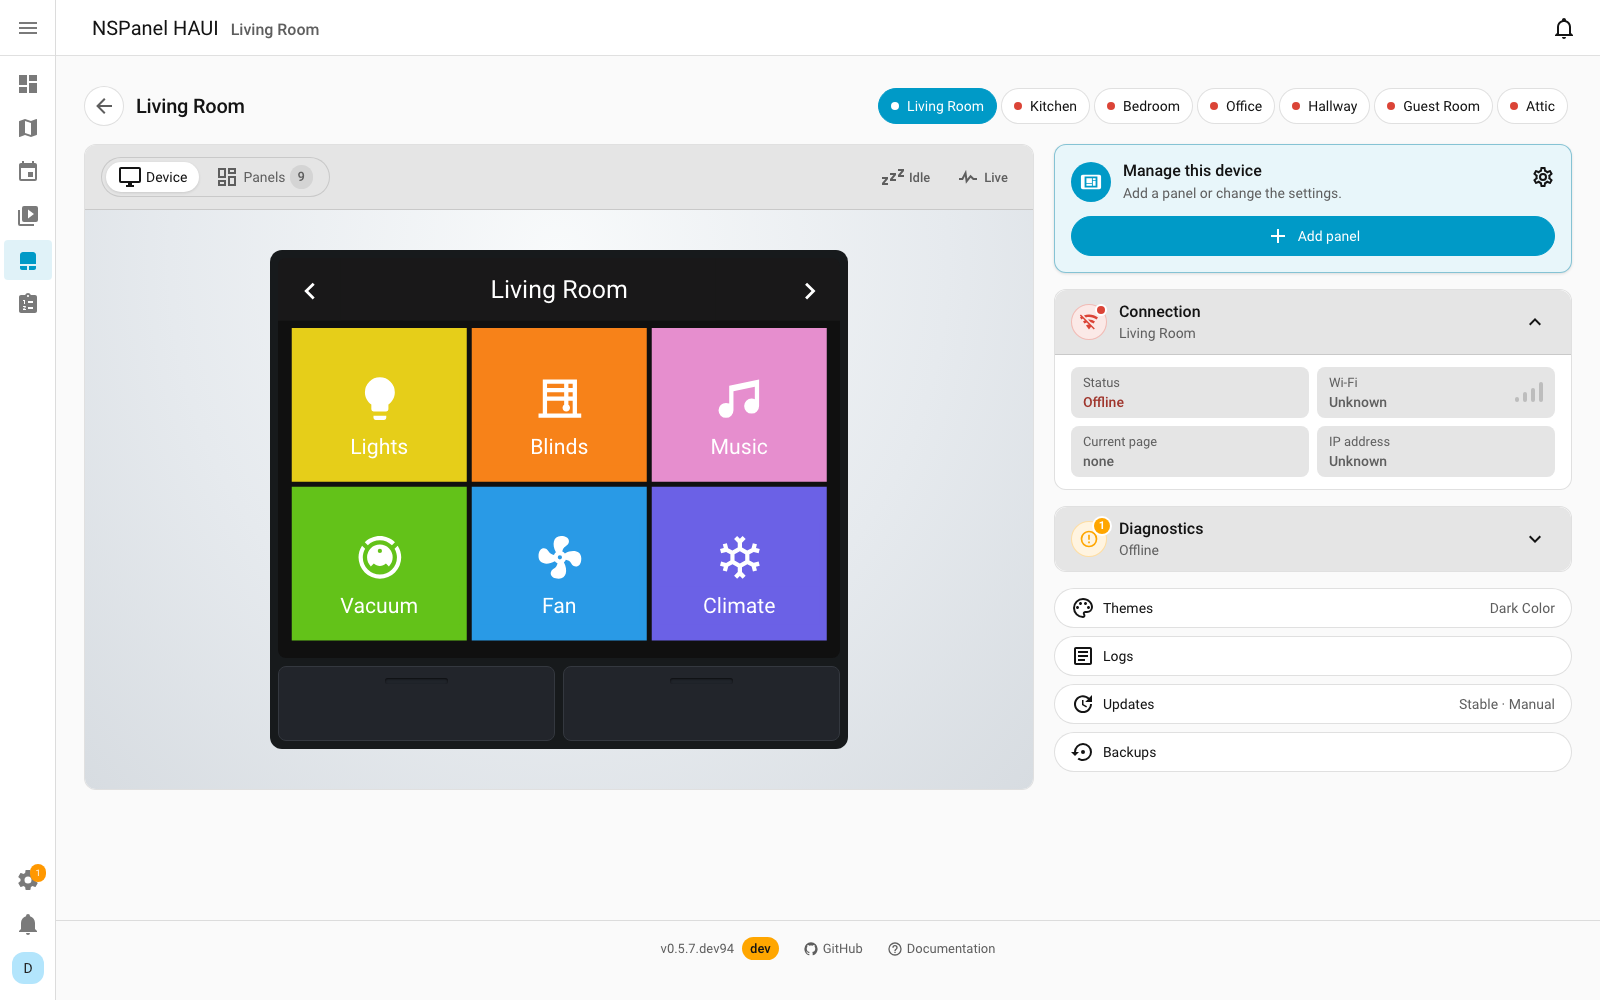
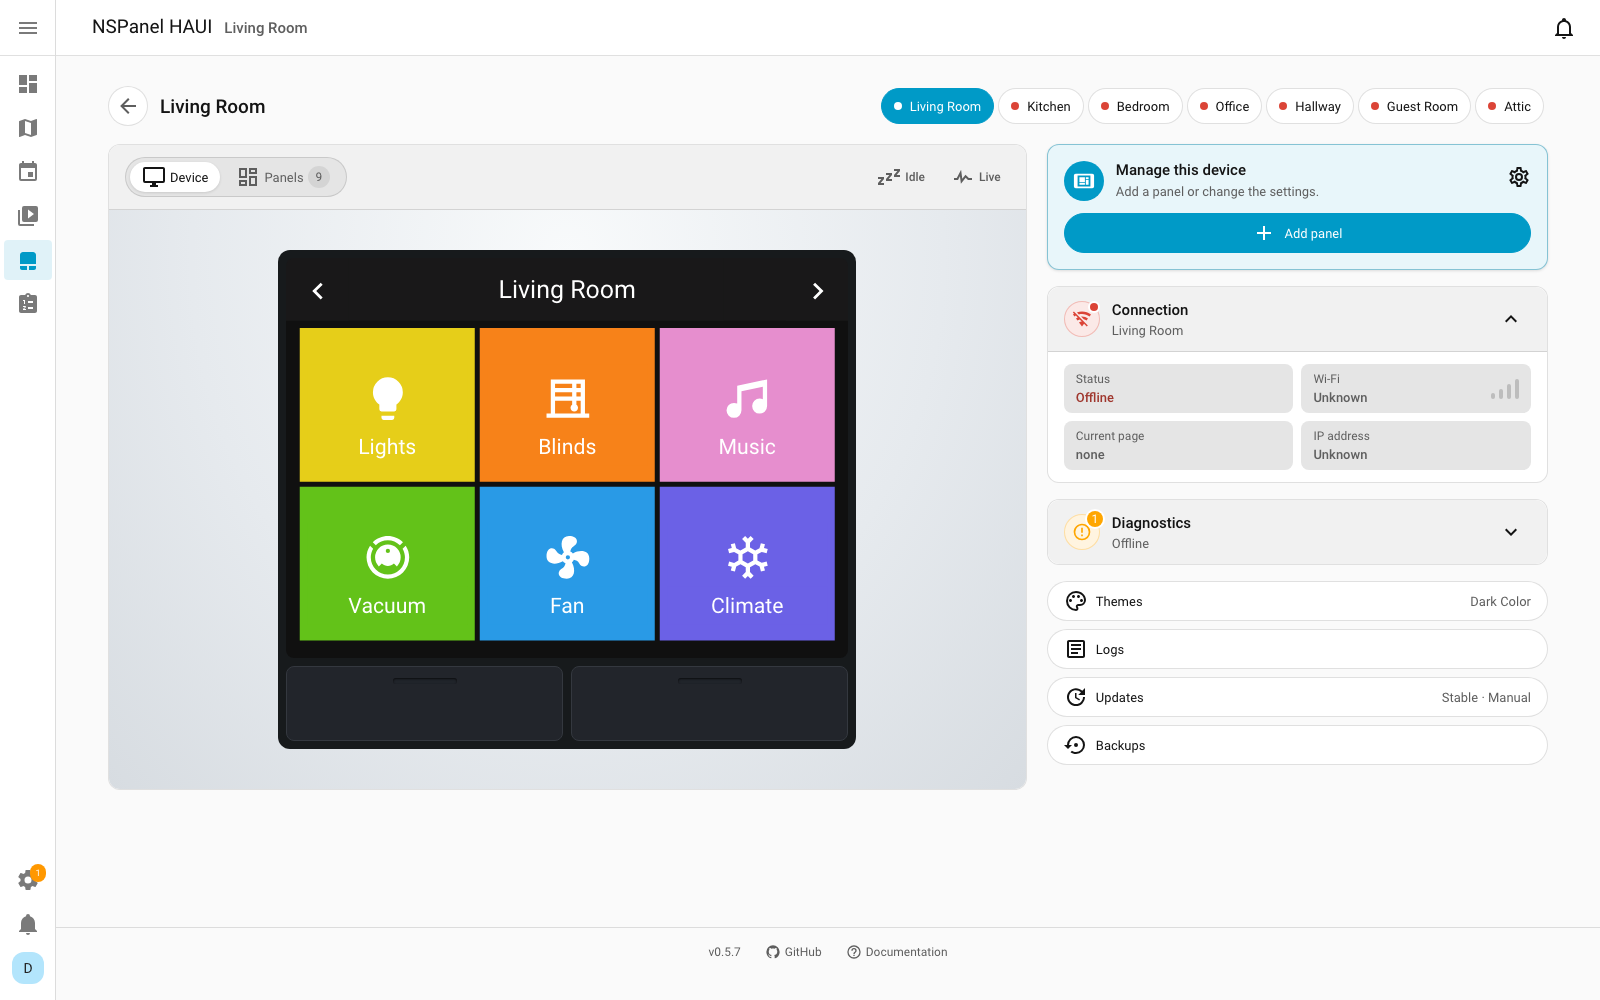
refactor(locale): rename weekday date patterns to translation keys
Rename legacy CLDR weekday pattern identifiers "E" and "EEEE" to valid Home
Assistant selector translation keys "weekday_short" and "weekday_full".

- Add backward-compatible normalization for legacy pattern values across the
  hub config flow, locale helpers, and device settings frontend.
- Update integration translation files and user documentation.
- Refresh documentation screenshots and prune unused brand assets.

diff --git a/custom_components/nspanel_haui/frontend/views/device-settings.js b/custom_components/nspanel_haui/frontend/views/device-settings.js
@@ -22,6 +22,12 @@ import { scheduleSection } from '../ui/schedule-section.js';
 import { settingsTile } from '../ui/settings-tile.js';
 
 /**
+ * The CLDR names of the weekday-only layouts, stored before they became the
+ * selector's translation keys `weekday_short` and `weekday_full`.
+ */
+const LEGACY_DATE_FORMAT_LOCALES = { E: "weekday_short", EEEE: "weekday_full" };
+
+/**
  * Render a toggle row used within the device config form.
  * Uses native toggle checkbox via renderToggle.
  */
@@ -345,14 +351,17 @@ class DeviceSettings extends HauiDialog {
         t("US 12-hour shows e.g. 2:30 PM. Custom strftime directives: %H = hour (24h), %I = hour (12h), %M = minutes, %p = AM/PM."))}
       ${formatSelectField(this, "dc-date_format", "date_format", cfg, t("Date format"), dateFormatOptions(),
         t("US numeric shows e.g. 03/14/2026. Empty keeps the locale-based layout from the Language setting."))}
-      ${selectField(this, "dc-date_format_locale", "date_format_locale", cfg, t("Locale-aware date layout"), [
+      ${selectField(this, "dc-date_format_locale", "date_format_locale", {
+        ...cfg,
+        date_format_locale: LEGACY_DATE_FORMAT_LOCALES[cfg.date_format_locale] ?? cfg.date_format_locale,
+      }, t("Locale-aware date layout"), [
         { value: "", label: t("Use hub default") },
         { value: "full", label: t("Full") },
         { value: "long", label: t("Long") },
         { value: "medium", label: t("Medium") },
         { value: "short", label: t("Short") },
-        { value: "E", label: t("Weekday (short)") },
-        { value: "EEEE", label: t("Weekday (full)") },
+        { value: "weekday_short", label: t("Weekday (short)") },
+        { value: "weekday_full", label: t("Weekday (full)") },
       ], (v) => v, t("Used when Date format is Default. The selected layout follows the device language."))}
       ${this._themeField(cfg)}
     `;

diff --git a/custom_components/nspanel_haui/haui/utils/locale_data.py b/custom_components/nspanel_haui/haui/utils/locale_data.py
@@ -12,55 +12,65 @@ Replaces babel.dates.format_date with hardcoded CLDR-based data.
 #   {MONA}  = abbreviated month name
 #   {YEAR}  = full year (4-digit)
 
+# The pattern names double as the `date_format_locale` selector's option values,
+# which Home Assistant validates as translation keys (lowercase, no leading or
+# trailing separator) - hence the weekday-only layouts are not CLDR's `E`/`EEEE`.
 LOCALE_PATTERNS = {
     "sk_SK": {
         "full": "{DOW} {DAY}. {MON} {YEAR}",
         "long": "{DAY}. {MON} {YEAR}",
         "medium": "{DAY}. {MONA} {YEAR}",
         "short": "{DAY}. {MONA} {YEAR}",
-        "E": "{DOWA}",
-        "EEEE": "{DOW}",
+        "weekday_short": "{DOWA}",
+        "weekday_full": "{DOW}",
     },
     "en_US": {
         "full": "{DOW}, {MON} {DAY}, {YEAR}",
         "long": "{MON} {DAY}, {YEAR}",
         "medium": "{MONA} {DAY}, {YEAR}",
         "short": "{MONA} {DAY}, {YEAR}",  # CLDR uses M/d/yy but we keep names for consistency
-        "E": "{DOWA}",
-        "EEEE": "{DOW}",
+        "weekday_short": "{DOWA}",
+        "weekday_full": "{DOW}",
     },
     "de_DE": {
         "full": "{DOW}, {DAY}. {MON} {YEAR}",
         "long": "{DAY}. {MON} {YEAR}",
         "medium": "{DAY}. {MONA} {YEAR}",
         "short": "{DAY}.{MON}.{YEAR}",  # numeric-ish format
-        "E": "{DOWA}",
-        "EEEE": "{DOW}",
+        "weekday_short": "{DOWA}",
+        "weekday_full": "{DOW}",
     },
     "nl_NL": {
         "full": "{DOW} {DAY} {MON} {YEAR}",
         "long": "{DAY} {MON} {YEAR}",
         "medium": "{DAY} {MONA} {YEAR}",
         "short": "{DAY}-{MON}-{YEAR}",  # numeric-ish
-        "E": "{DOWA}",
-        "EEEE": "{DOW}",
+        "weekday_short": "{DOWA}",
+        "weekday_full": "{DOW}",
     },
     "pl_PL": {
         "full": "{DOW}, {DAY} {MON} {YEAR}",
         "long": "{DAY} {MON} {YEAR}",
         "medium": "{DAY} {MONA} {YEAR}",
         "short": "{DAY}.{MON}.{YEAR}",  # numeric-ish
-        "E": "{DOWA}",
-        "EEEE": "{DOW}",
+        "weekday_short": "{DOWA}",
+        "weekday_full": "{DOW}",
     },
     "fr_FR": {
         "full": "{DOW} {DAY} {MON} {YEAR}",
         "long": "{DAY} {MON} {YEAR}",
         "medium": "{DAY} {MONA} {YEAR}",
         "short": "{DAY}/{MON}/{YEAR}",  # numeric-ish
-        "E": "{DOWA}",
-        "EEEE": "{DOW}",
+        "weekday_short": "{DOWA}",
+        "weekday_full": "{DOW}",
     },
+}
+
+# A panel or hub stored before the rename keeps its weekday-only layout instead
+# of silently falling back to the strftime date format.
+LEGACY_PATTERN_NAMES = {
+    "E": "weekday_short",
+    "EEEE": "weekday_full",
 }
 
 # Day names indexed by Python weekday (0=Monday, 6=Sunday)
@@ -278,12 +288,25 @@ def get_month_name(locale: str, month: int, abbreviated: bool = False) -> str:
     return names[idx][month - 1]
 
 
+def normalize_pattern_name(babel_format: str) -> str:
+    """Return the current name of a locale date layout.
+
+    Args:
+        babel_format: A layout name such as "full", or one stored before the
+            weekday layouts became translation keys ("E", "EEEE")
+
+    Returns:
+        The layout's current name
+    """
+    return LEGACY_PATTERN_NAMES.get(babel_format, babel_format)
+
+
 def get_pattern(locale: str, babel_format: str) -> str | None:
-    """Return the token pattern for a given locale and Babel format name.
+    """Return the token pattern for a given locale and layout name.
 
     Args:
         locale: Locale string (e.g. "en_US", "de_DE")
-        babel_format: Babel format name (e.g. "full", "E", "EEEE")
+        babel_format: Layout name (e.g. "full", "weekday_short")
 
     Returns:
         Token pattern string, or None if format is not recognized
@@ -291,4 +314,4 @@ def get_pattern(locale: str, babel_format: str) -> str | None:
     patterns = LOCALE_PATTERNS.get(locale)
     if patterns is None:
         patterns = LOCALE_PATTERNS["en_US"]
-    return patterns.get(babel_format)
+    return patterns.get(normalize_pattern_name(babel_format))

diff --git a/custom_components/nspanel_haui/config_flow.py b/custom_components/nspanel_haui/config_flow.py
@@ -26,14 +26,24 @@ from homeassistant.helpers.selector import (
 from .const import DOMAIN
 from .haui.device_config import HUB_OPTION_KEYS, hub_options
 from .haui.mapping.const import DEFAULT_CONFIG
+from .haui.utils.locale_data import normalize_pattern_name
 from .hub.esphome_helpers import discover_esphome_devices as _discover_esphome_devices
 from .hub.esphome_helpers import hub_device_entry
 
 _LOGGER = logging.getLogger(__name__)
 
 # Locale date layouts a panel can inherit; the same values the editor offers,
-# where the selected layout follows the device language.
-DATE_FORMAT_LOCALE_OPTIONS: tuple[str, ...] = ("full", "long", "medium", "short", "E", "EEEE")
+# where the selected layout follows the device language.  Each one is a selector
+# option value, so it has to be a valid translation key (see
+# ``haui/utils/locale_data.py``).
+DATE_FORMAT_LOCALE_OPTIONS: tuple[str, ...] = (
+    "full",
+    "long",
+    "medium",
+    "short",
+    "weekday_short",
+    "weekday_full",
+)
 
 # A longer strftime pattern is a paste accident, not a format.
 MAX_FORMAT_LENGTH = 64
@@ -56,13 +66,13 @@ def _hub_settings_schema(values: Mapping[str, Any]) -> vol.Schema:
     }
     for key in FORMAT_OPTION_KEYS:
         schema[vol.Required(key, default=values.get(key, ""))] = TextSelector()
-    schema[vol.Required("date_format_locale", default=values.get("date_format_locale", ""))] = (
-        SelectSelector(
-            SelectSelectorConfig(
-                options=list(DATE_FORMAT_LOCALE_OPTIONS),
-                mode=SelectSelectorMode.DROPDOWN,
-                translation_key="date_format_locale",
-            )
+    # A layout stored before the rename is offered under its current name.
+    stored_layout = normalize_pattern_name(values.get("date_format_locale", ""))
+    schema[vol.Required("date_format_locale", default=stored_layout)] = SelectSelector(
+        SelectSelectorConfig(
+            options=list(DATE_FORMAT_LOCALE_OPTIONS),
+            mode=SelectSelectorMode.DROPDOWN,
+            translation_key="date_format_locale",
         )
     )
     return vol.Schema(schema)

diff --git a/tests/test_locale_data.py b/tests/test_locale_data.py
@@ -1,0 +1,28 @@
+"""Locale date layouts, and the names they were stored under before the rename."""
+
+from __future__ import annotations
+
+from datetime import datetime
+
+import pytest
+
+from custom_components.nspanel_haui.haui.utils.datetime import format_datetime
+from custom_components.nspanel_haui.haui.utils.locale_data import get_pattern
+
+THURSDAY = datetime(2026, 11, 12)
+
+
+def test_the_weekday_layouts_show_the_weekday_only():
+    """The two non-CLDR layouts Home Assistant can name as a translation key."""
+    assert format_datetime(THURSDAY, "%x", "weekday_short", "en_US") == "Thu"
+    assert format_datetime(THURSDAY, "%x", "weekday_full", "en_US") == "Thursday"
+
+
+@pytest.mark.parametrize(
+    ("stored", "current", "expected"),
+    [("E", "weekday_short", "Do."), ("EEEE", "weekday_full", "Donnerstag")],
+)
+def test_a_layout_stored_under_its_old_name_keeps_its_pattern(stored, current, expected):
+    """A panel saved as ``E``/``EEEE`` shows its weekday, not the strftime fallback."""
+    assert get_pattern("de_DE", stored) == get_pattern("de_DE", current)
+    assert format_datetime(THURSDAY, "%x", stored, "de_DE") == expected

diff --git a/tests/test_config_flow.py b/tests/test_config_flow.py
@@ -933,6 +933,14 @@ class TestHubOptionsFlow:
         assert values["time_format"] == "%I:%M %p"
         assert values["date_format_locale"] == "long"
 
+    def test_the_form_prefills_a_layout_saved_before_the_rename(self):
+        """A hub saved with the old weekday layout keeps it, under its new name."""
+        entry = _OptionsEntry(options={"date_format_locale": "E"})
+
+        result = self._run(self._make_flow(entry).async_step_init())
+
+        assert _form_values(result)["date_format_locale"] == "weekday_short"
+
     def test_the_form_offers_the_editor_s_locale_date_layouts(self):
         """The editor's per-device dropdown and this form offer the same layouts."""
         source = (

diff --git a/tests/test_slovak_locale.py b/tests/test_slovak_locale.py
@@ -53,7 +53,7 @@ def test_slovak_dates_use_genitive_months_and_local_weekdays():
     assert format_datetime(date, "%x", "full", "sk_SK") == "štvrtok 12. novembra 2026"
     assert format_datetime(date, "%x", "long", "sk_SK") == "12. novembra 2026"
     assert format_datetime(date, "%x", "medium", "sk_SK") == "12. nov 2026"
-    assert format_datetime(date, "%x", "E", "sk_SK") == "št"
+    assert format_datetime(date, "%x", "weekday_short", "sk_SK") == "št"
     assert get_day_name("sk_SK", 6) == "nedeľa"
     assert get_month_name("sk_SK", 1) == "januára"
     assert get_month_name("sk_SK", 12) == "decembra"

diff --git a/README.md b/README.md
@@ -83,10 +83,10 @@ The editor follows your Home Assistant theme. Each screen below is shown in the 
 <table>
   <tr>
     <td align="center" valign="top" width="50%">
-      <img src="https://raw.githubusercontent.com/happydasch/nspanel_haui/master/docs/assets/readme/editor-fleet-light.png" alt="Fleet dashboard in the light theme with device cards showing their home screens, the device inventory and latest events" width="100%">
+      <img src="https://raw.githubusercontent.com/happydasch/nspanel_haui/master/docs/assets/readme/editor-fleet-light.png" alt="Fleet dashboard in the light theme with device cards showing their home screens and a footer bar with the device's name and status, the device inventory and latest events" width="100%">
     </td>
     <td align="center" valign="top" width="50%">
-      <img src="https://raw.githubusercontent.com/happydasch/nspanel_haui/master/docs/assets/readme/editor-fleet-dark.png" alt="Fleet dashboard in the dark theme with device cards showing their home screens, the device inventory and latest events" width="100%">
+      <img src="https://raw.githubusercontent.com/happydasch/nspanel_haui/master/docs/assets/readme/editor-fleet-dark.png" alt="Fleet dashboard in the dark theme with device cards showing their home screens and a footer bar with the device's name and status, the device inventory and latest events" width="100%">
     </td>
   </tr>
   <tr>
@@ -195,10 +195,10 @@ The editor follows your Home Assistant theme. Each screen below is shown in the 
   </tr>
   <tr>
     <td align="center" valign="top" width="50%">
-      <img src="https://raw.githubusercontent.com/happydasch/nspanel_haui/master/docs/assets/readme/editor-settings-light.png" alt="Device settings in the light theme, opened on a tile per group: general, screen, sounds, home and idle, gestures, screen buttons, hardware buttons and advanced" width="100%">
+      <img src="https://raw.githubusercontent.com/happydasch/nspanel_haui/master/docs/assets/readme/editor-settings-light.png" alt="Device settings in the light theme, opened on a tile per group: general, home and idle, hardware buttons, screen buttons, screen, sounds, gestures and advanced" width="100%">
     </td>
     <td align="center" valign="top" width="50%">
-      <img src="https://raw.githubusercontent.com/happydasch/nspanel_haui/master/docs/assets/readme/editor-settings-dark.png" alt="Device settings in the dark theme, opened on a tile per group: general, screen, sounds, home and idle, gestures, screen buttons, hardware buttons and advanced" width="100%">
+      <img src="https://raw.githubusercontent.com/happydasch/nspanel_haui/master/docs/assets/readme/editor-settings-dark.png" alt="Device settings in the dark theme, opened on a tile per group: general, home and idle, hardware buttons, screen buttons, screen, sounds, gestures and advanced" width="100%">
     </td>
   </tr>
   <tr>

diff --git a/docs/user/editor/device.md b/docs/user/editor/device.md
@@ -15,11 +15,11 @@ Everything here belongs to this panel. The hub's own name, and the formats a pan
 
 === "Light"
 
-    <img src="../../assets/readme/editor-settings-light.png" alt="Device settings in the light theme, opened on a tile per group: general, screen, sounds, home and idle, gestures, screen buttons, hardware buttons and advanced" width="800" height="500">
+    <img src="../../assets/readme/editor-settings-light.png" alt="Device settings in the light theme, opened on a tile per group: general, home and idle, hardware buttons, screen buttons, screen, sounds, gestures and advanced" width="800" height="500">
 
 === "Dark"
 
-    <img src="../../assets/readme/editor-settings-dark.png" alt="Device settings in the dark theme, opened on a tile per group: general, screen, sounds, home and idle, gestures, screen buttons, hardware buttons and advanced" width="800" height="500">
+    <img src="../../assets/readme/editor-settings-dark.png" alt="Device settings in the dark theme, opened on a tile per group: general, home and idle, hardware buttons, screen buttons, screen, sounds, gestures and advanced" width="800" height="500">
 
 ## General
 

diff --git a/docs/user/editor/README.md b/docs/user/editor/README.md
@@ -31,11 +31,11 @@ The dashboard is the editor's start screen. It lists every NSPanel HAUI device a
 
 === "Light"
 
-    <img src="../../assets/readme/editor-fleet-light.png" alt="Fleet dashboard in the light theme: device cards with their home screens, the device inventory and latest events" width="800" height="500">
+    <img src="../../assets/readme/editor-fleet-light.png" alt="Fleet dashboard in the light theme: device cards with their home screens and a footer bar naming the device and its status, the device inventory and latest events" width="800" height="500">
 
 === "Dark"
 
-    <img src="../../assets/readme/editor-fleet-dark.png" alt="Fleet dashboard in the dark theme: device cards with their home screens, the device inventory and latest events" width="800" height="500">
+    <img src="../../assets/readme/editor-fleet-dark.png" alt="Fleet dashboard in the dark theme: device cards with their home screens and a footer bar naming the device and its status, the device inventory and latest events" width="800" height="500">
 
 ### Adding a device
 

diff --git a/docs/user/hub-settings.md b/docs/user/hub-settings.md
@@ -42,8 +42,8 @@ The rules are short:
 - **Empty means the built-in default.** Clearing a field keeps the default the integration ships with rather than
   blanking the panels.
 - **The layout and the format are not the same thing.** Set **Default date format** for the exact pattern every panel
-  should show, or leave it empty and pick a layout — `full`, `long`, `medium`, `short`, `E` or `EEEE` —
-  which the panel fills in with its own language.
+  should show, or leave it empty and pick a layout — `full`, `long`, `medium`, `short`, `weekday_short` or
+  `weekday_full` — which the panel fills in with its own language.
 
 ## Saving restarts the panels
 
